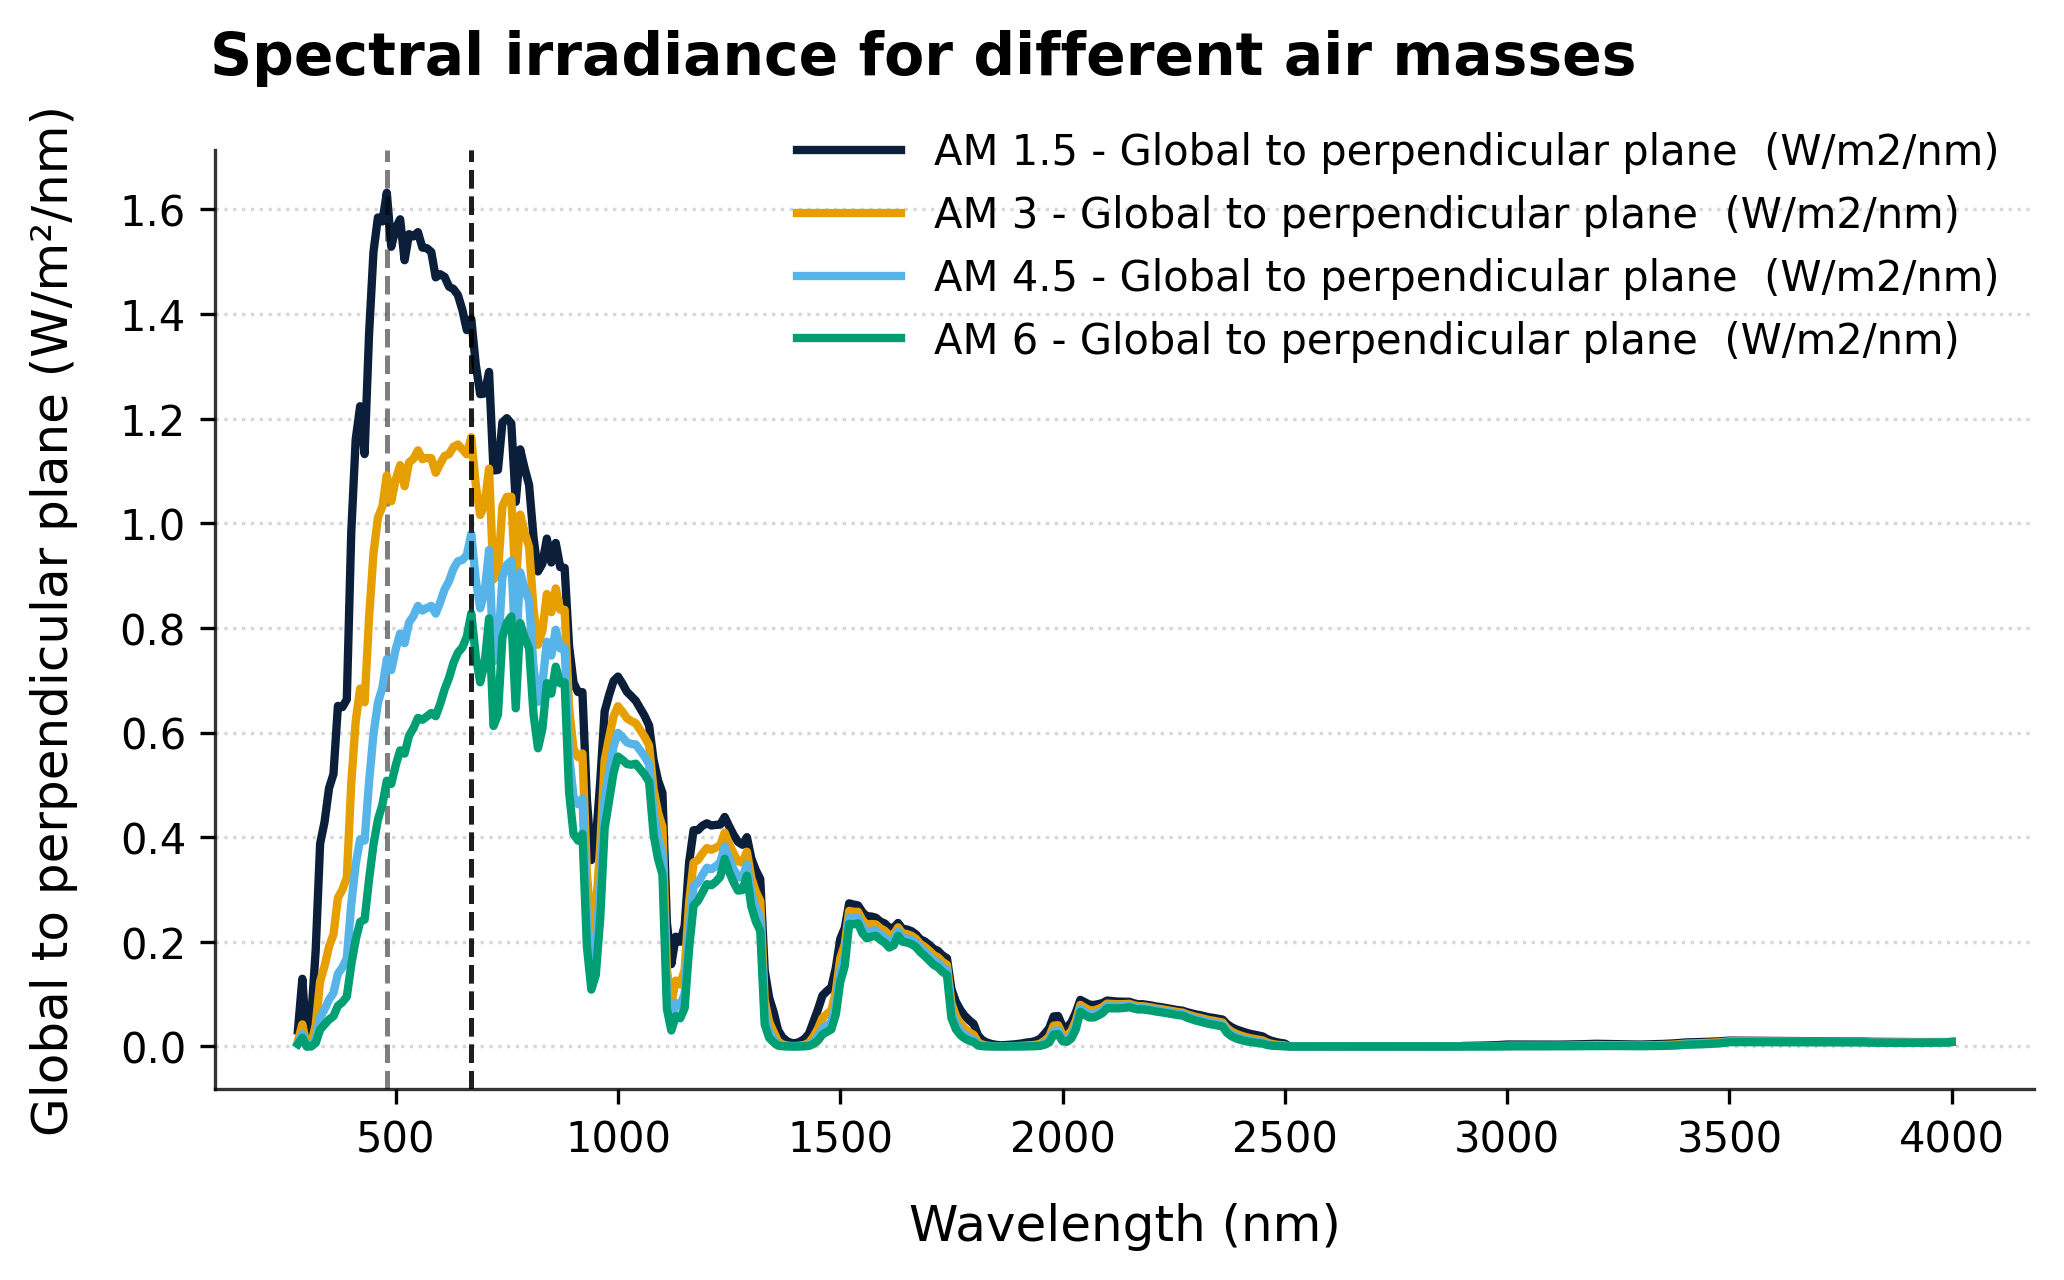
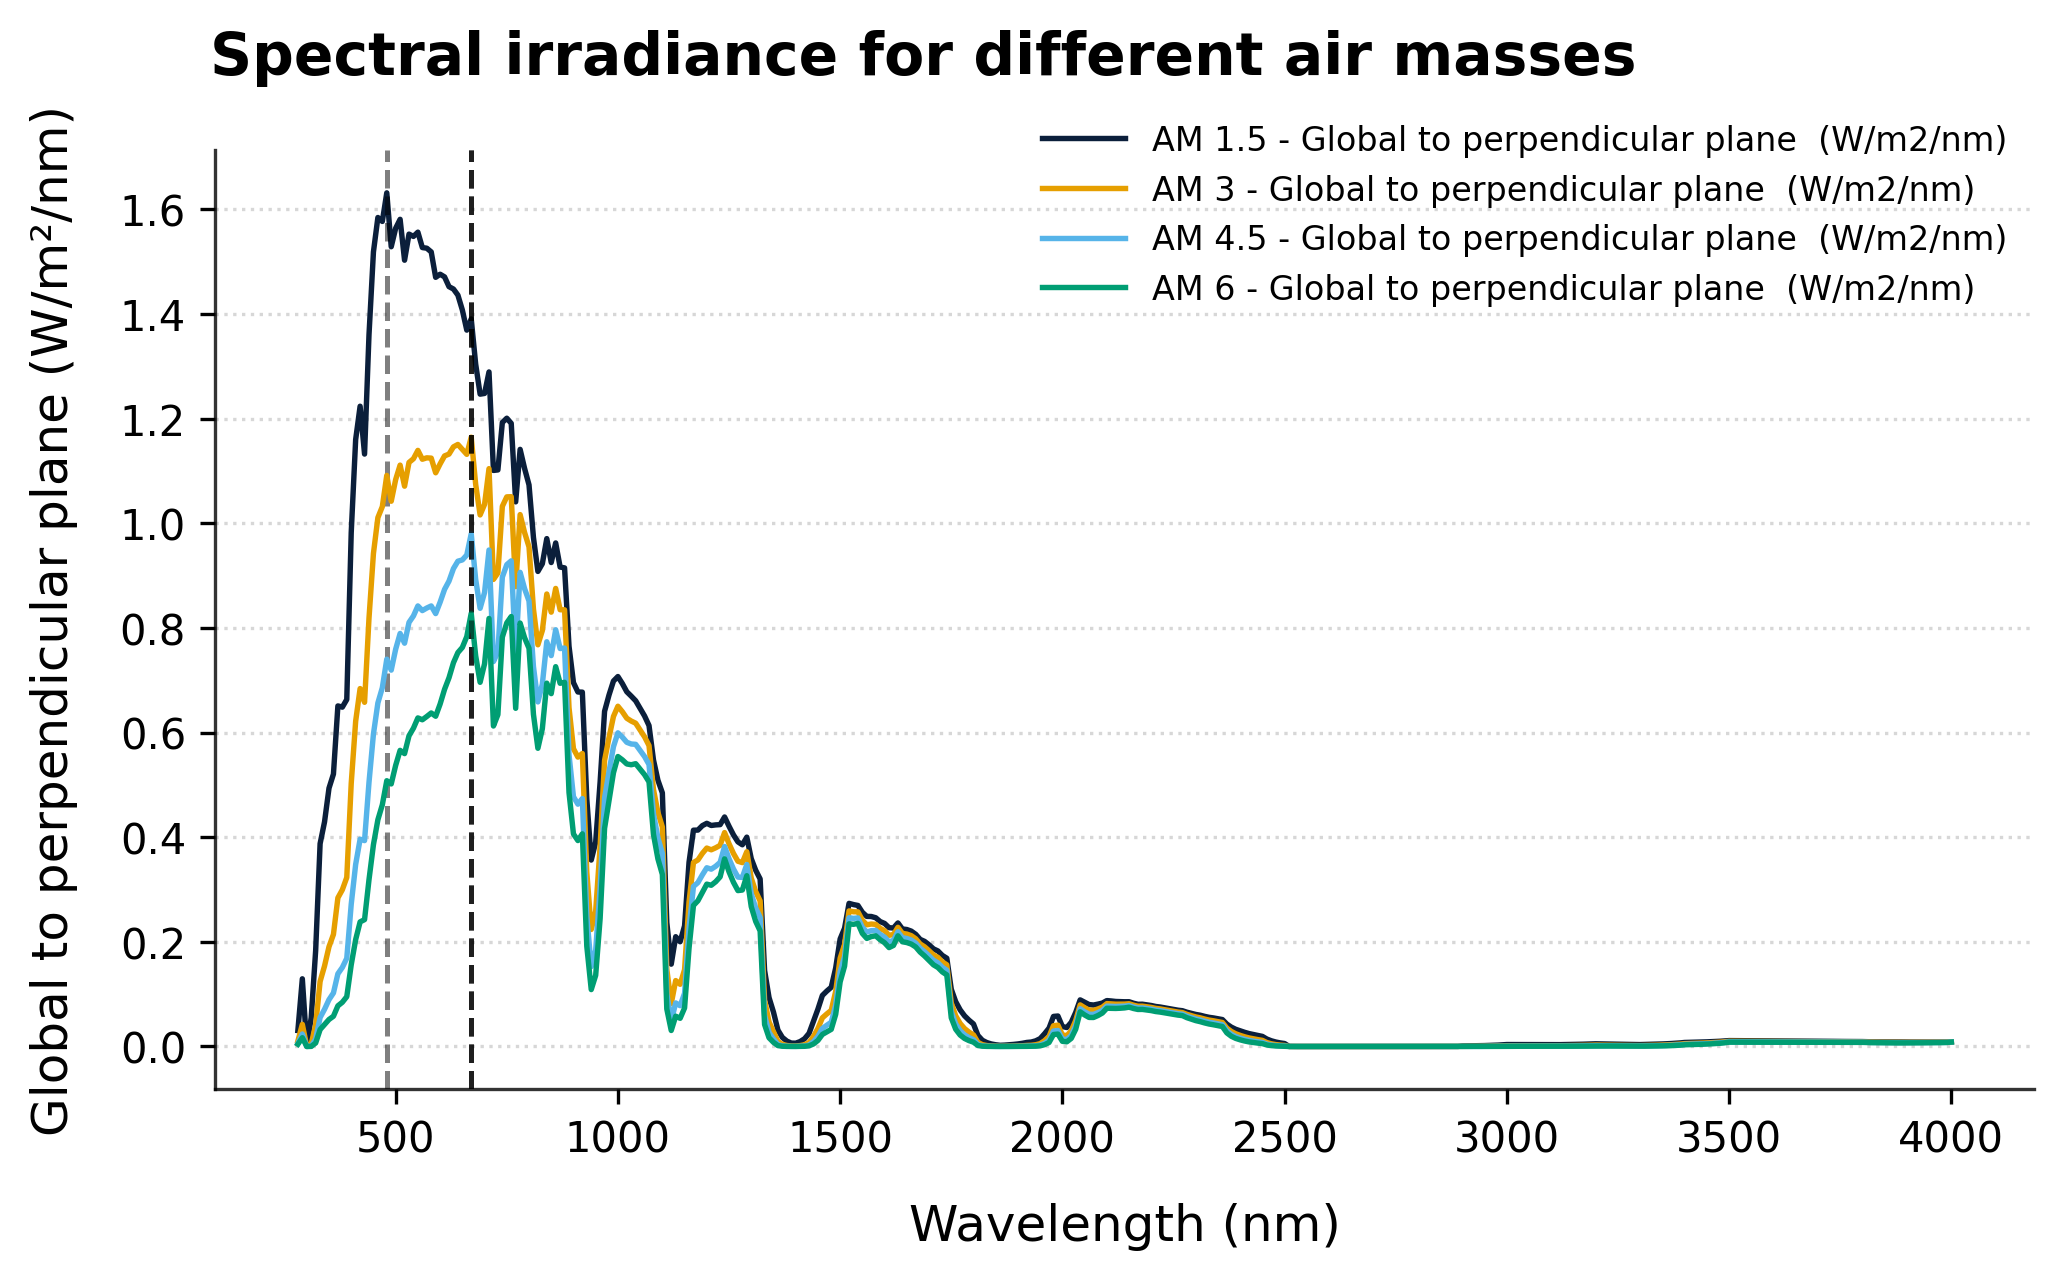
Updated figures and legend layout

diff --git a/pv_assignments/assignment_1/part_1.py b/pv_assignments/assignment_1/part_1.py
@@ -48,6 +48,7 @@ def plot(
     labels: list[str],
     value_names: list[str],
     peak_wavelengths: bool = False,
+    title: str | None = None,
     fig_title: str | None = None,
 ) -> None:
     """Plot spectral irradiance for multiple dataframes.
@@ -78,7 +79,7 @@ def plot(
             ax.plot(
                 x, y,
                 color = palette[i % len(palette)],
-                linewidth=2.0,
+                linewidth=1.3,
                 label=series_label,
             )
             i+=1
@@ -94,7 +95,6 @@ def plot(
                 )
 
     # Labels & title
-    title = "Spectral irradiance for different air masses"
     ax.set_xlabel("Wavelength (nm)", fontsize=12, labelpad=10)
     ax.set_ylabel("Global to perpendicular plane (W/m²/nm)", fontsize=12, labelpad=10)
 
@@ -117,14 +117,12 @@ def plot(
         loc="upper right",
         bbox_to_anchor=(0.98, 0.93),
         ncol=1,
-        fontsize=10,
+        fontsize=8,
         handlelength=2.5,
         columnspacing=1.2,
     )
 
     # Reserve top space for title + legend
-    fig.tight_layout(rect=[0, 0, 1, 0.78])
-
     fig.tight_layout()
 
     # --- save ---
@@ -248,7 +246,7 @@ def main() -> None:
     value_names = ["Global to perpendicular plane  (W/m2/nm)"]
     broadband_irradiance(dfs, labels, value_names)
     peak_wavelength(dfs, labels, value_names)
-    plot(dfs, labels, value_names, peak_wavelengths=True, fig_title="Part 1-1")
+    plot(dfs, labels, value_names, peak_wavelengths=True, title="Spectral irradiance for different air masses", fig_title="Part 1-1")
 
     print("\nPart 1-2")
     dfs = [load_data("1.5")]
@@ -258,7 +256,7 @@ def main() -> None:
         "Diffuse to horizontal plane (W/m2/nm)",
         "Global to horizontal plane  (W/m2/nm)",
     ]
-    plot(dfs=dfs, labels=labels, value_names=value_names, fig_title="Part 1-2")
+    plot(dfs=dfs, labels=labels, value_names=value_names, title="Spectral irradiance - Horizontal plane", fig_title="Part 1-2")
     broadband = broadband_irradiance(dfs, labels, value_names)
     diffuse_fraction = (
         broadband["AM 1.5 - Diffuse to horizontal plane (W/m2/nm)"]
@@ -280,7 +278,7 @@ def main() -> None:
         "AM 1.5 - Water Vapor 2.13",
     ]
     value_names = ["Global to perpendicular plane  (W/m2/nm)"]
-    plot(dfs=dfs, labels=labels, value_names=value_names, fig_title="Part 1-3")
+    plot(dfs=dfs, labels=labels, value_names=value_names, title="Spectral irradiance for different water vapor contents", fig_title="Part 1-3")
 
 
 if __name__ == "__main__":
